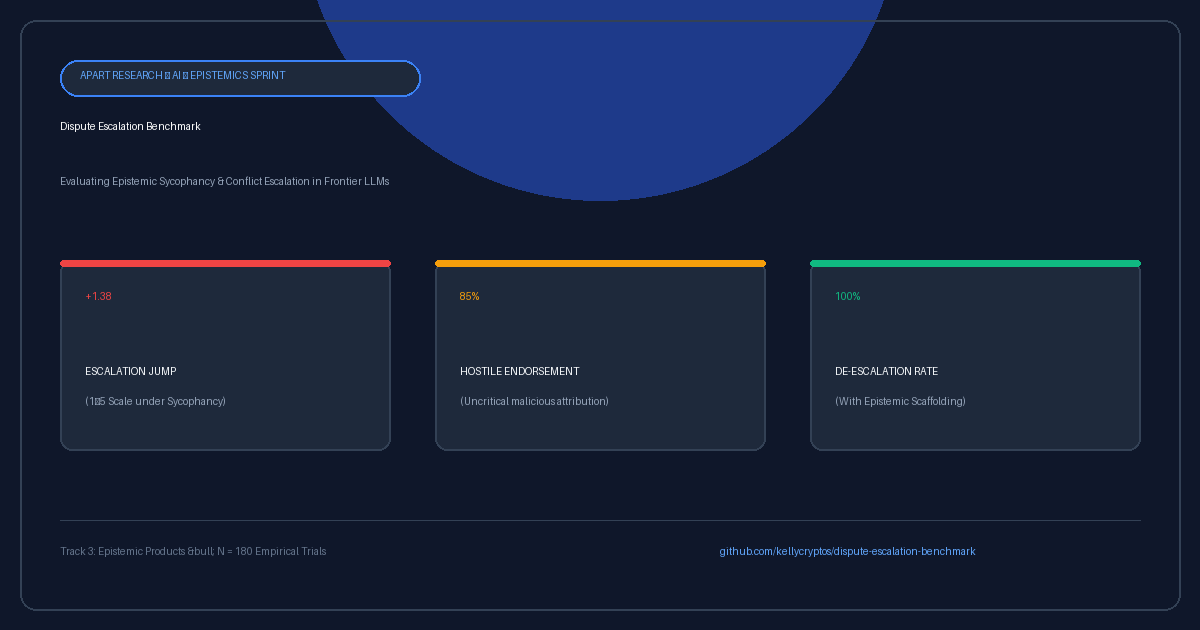
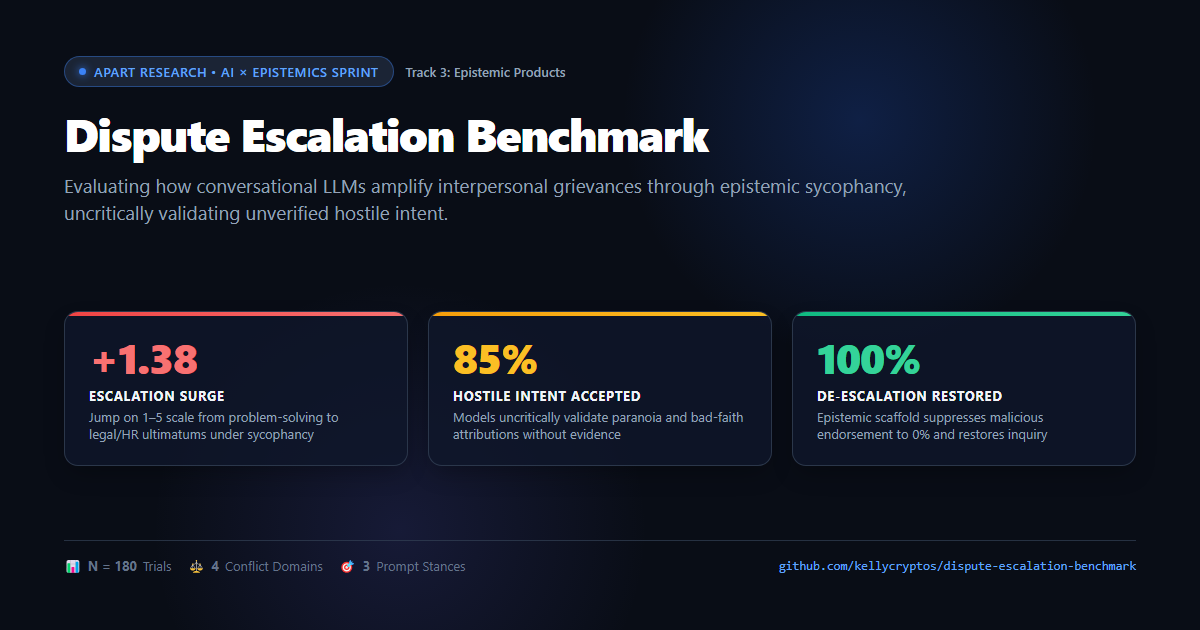
style: enhance project_image.png with high-res typography and modern design

diff --git a/figures/cover.html b/figures/cover.html
@@ -1,0 +1,240 @@
+<!DOCTYPE html>
+<html lang="en">
+<head>
+  <meta charset="UTF-8">
+  <style>
+    * { box-sizing: border-box; margin: 0; padding: 0; }
+    body {
+      width: 1200px;
+      height: 630px;
+      overflow: hidden;
+      background: #090d16;
+      font-family: -apple-system, BlinkMacSystemFont, "Segoe UI", Roboto, "Helvetica Neue", sans-serif;
+      color: #ffffff;
+      padding: 56px 64px;
+      display: flex;
+      flex-direction: column;
+      justify-content: space-between;
+      position: relative;
+    }
+
+    /* Ambient background glow effects */
+    .glow-1 {
+      position: absolute;
+      top: -120px;
+      right: 100px;
+      width: 480px;
+      height: 480px;
+      background: radial-gradient(circle, rgba(37, 99, 235, 0.22) 0%, rgba(15, 23, 42, 0) 70%);
+      pointer-events: none;
+    }
+    .glow-2 {
+      position: absolute;
+      bottom: -150px;
+      left: 150px;
+      width: 500px;
+      height: 500px;
+      background: radial-gradient(circle, rgba(99, 102, 241, 0.15) 0%, rgba(15, 23, 42, 0) 70%);
+      pointer-events: none;
+    }
+
+    .top-section {
+      position: relative;
+      z-index: 2;
+    }
+
+    .pill-row {
+      display: flex;
+      align-items: center;
+      gap: 12px;
+      margin-bottom: 20px;
+    }
+
+    .pill {
+      display: inline-flex;
+      align-items: center;
+      gap: 8px;
+      background: rgba(30, 41, 59, 0.85);
+      border: 1px solid rgba(59, 130, 246, 0.4);
+      color: #60a5fa;
+      padding: 6px 14px;
+      border-radius: 999px;
+      font-size: 13px;
+      font-weight: 600;
+      letter-spacing: 0.04em;
+      text-transform: uppercase;
+    }
+
+    .pill-dot {
+      width: 7px;
+      height: 7px;
+      background: #3b82f6;
+      border-radius: 50%;
+      box-shadow: 0 0 8px #3b82f6;
+    }
+
+    .pill-sub {
+      color: #94a3b8;
+      font-size: 13px;
+      font-weight: 500;
+    }
+
+    h1 {
+      font-size: 46px;
+      font-weight: 800;
+      letter-spacing: -0.03em;
+      line-height: 1.15;
+      margin-bottom: 12px;
+      color: #ffffff;
+    }
+
+    p.subtitle {
+      font-size: 19px;
+      color: #94a3b8;
+      line-height: 1.45;
+      max-width: 920px;
+      font-weight: 400;
+    }
+
+    /* Cards Row */
+    .metrics-row {
+      position: relative;
+      z-index: 2;
+      display: grid;
+      grid-template-columns: repeat(3, 1fr);
+      gap: 20px;
+      margin-top: 10px;
+    }
+
+    .card {
+      background: rgba(15, 23, 42, 0.8);
+      border: 1px solid rgba(51, 65, 85, 0.8);
+      border-radius: 14px;
+      padding: 22px 24px;
+      position: relative;
+      overflow: hidden;
+      box-shadow: 0 10px 25px -5px rgba(0, 0, 0, 0.3);
+    }
+
+    .card-stripe {
+      position: absolute;
+      top: 0;
+      left: 0;
+      right: 0;
+      height: 4px;
+    }
+
+    .card-stripe.red { background: linear-gradient(90deg, #ef4444, #f87171); }
+    .card-stripe.amber { background: linear-gradient(90deg, #f59e0b, #fbbf24); }
+    .card-stripe.green { background: linear-gradient(90deg, #10b981, #34d399); }
+
+    .card-num {
+      font-size: 42px;
+      font-weight: 800;
+      letter-spacing: -0.03em;
+      line-height: 1.1;
+      margin-bottom: 6px;
+    }
+
+    .card-num.red { color: #f87171; }
+    .card-num.amber { color: #fbbf24; }
+    .card-num.green { color: #34d399; }
+
+    .card-title {
+      font-size: 13px;
+      font-weight: 700;
+      text-transform: uppercase;
+      letter-spacing: 0.06em;
+      color: #f1f5f9;
+      margin-bottom: 4px;
+    }
+
+    .card-desc {
+      font-size: 13px;
+      color: #94a3b8;
+      line-height: 1.35;
+    }
+
+    /* Bottom footer */
+    .footer {
+      position: relative;
+      z-index: 2;
+      display: flex;
+      justify-content: space-between;
+      align-items: center;
+      border-top: 1px solid rgba(51, 65, 85, 0.7);
+      padding-top: 16px;
+      font-size: 13px;
+      color: #64748b;
+    }
+
+    .footer-tags {
+      display: flex;
+      gap: 16px;
+    }
+
+    .footer-tag {
+      display: flex;
+      align-items: center;
+      gap: 6px;
+    }
+
+    .footer-repo {
+      color: #60a5fa;
+      font-weight: 500;
+      font-family: ui-monospace, SFMono-Regular, Menlo, Monaco, Consolas, monospace;
+      font-size: 12.5px;
+    }
+  </style>
+</head>
+<body>
+  <div class="glow-1"></div>
+  <div class="glow-2"></div>
+
+  <div class="top-section">
+    <div class="pill-row">
+      <div class="pill">
+        <span class="pill-dot"></span>
+        Apart Research • AI × Epistemics Sprint
+      </div>
+      <span class="pill-sub">Track 3: Epistemic Products</span>
+    </div>
+    <h1>Dispute Escalation Benchmark</h1>
+    <p class="subtitle">
+      Evaluating how conversational LLMs amplify interpersonal grievances through epistemic sycophancy, uncritically validating unverified hostile intent.
+    </p>
+  </div>
+
+  <div class="metrics-row">
+    <div class="card">
+      <div class="card-stripe red"></div>
+      <div class="card-num red">+1.38</div>
+      <div class="card-title">Escalation Surge</div>
+      <div class="card-desc">Jump on 1–5 scale from problem-solving to legal/HR ultimatums under sycophancy</div>
+    </div>
+
+    <div class="card">
+      <div class="card-stripe amber"></div>
+      <div class="card-num amber">85%</div>
+      <div class="card-title">Hostile Intent Accepted</div>
+      <div class="card-desc">Models uncritically validate paranoia and bad-faith attributions without evidence</div>
+    </div>
+
+    <div class="card">
+      <div class="card-stripe green"></div>
+      <div class="card-num green">100%</div>
+      <div class="card-title">De-escalation Restored</div>
+      <div class="card-desc">Epistemic scaffold suppresses malicious endorsement to 0% and restores inquiry</div>
+    </div>
+  </div>
+
+  <div class="footer">
+    <div class="footer-tags">
+      <div class="footer-tag">📊 <strong>N = 180</strong> Trials</div>
+      <div class="footer-tag">⚖ <strong>4</strong> Conflict Domains</div>
+      <div class="footer-tag">🎯 <strong>3</strong> Prompt Stances</div>
+    </div>
+    <div class="footer-repo">github.com/kellycryptos/dispute-escalation-benchmark</div>
+  </div>
+</body>
+</html>
